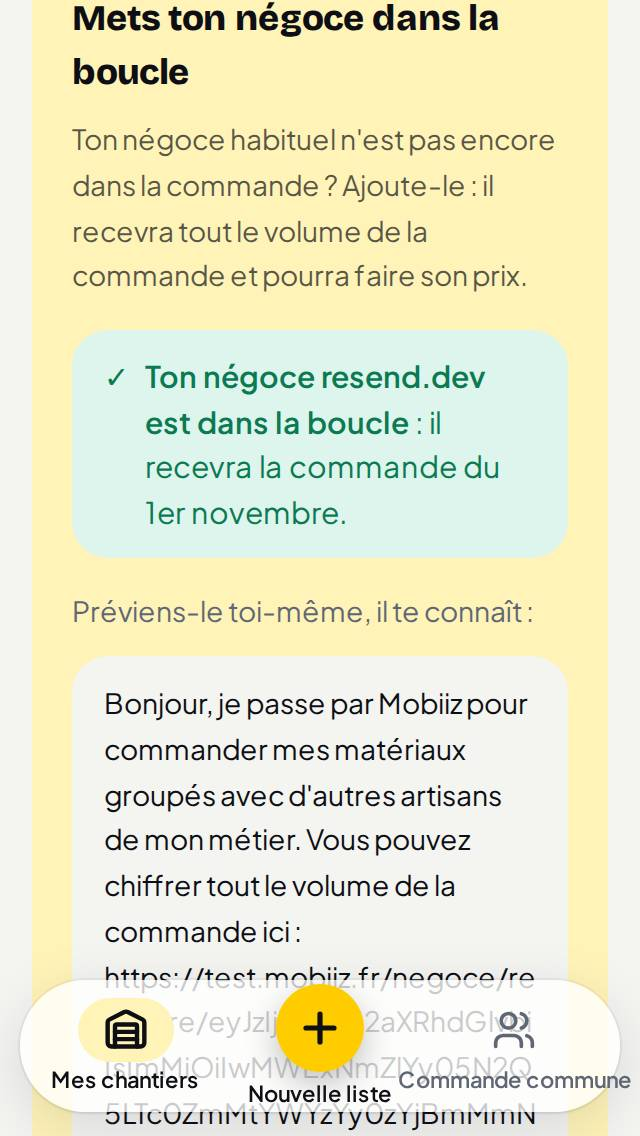
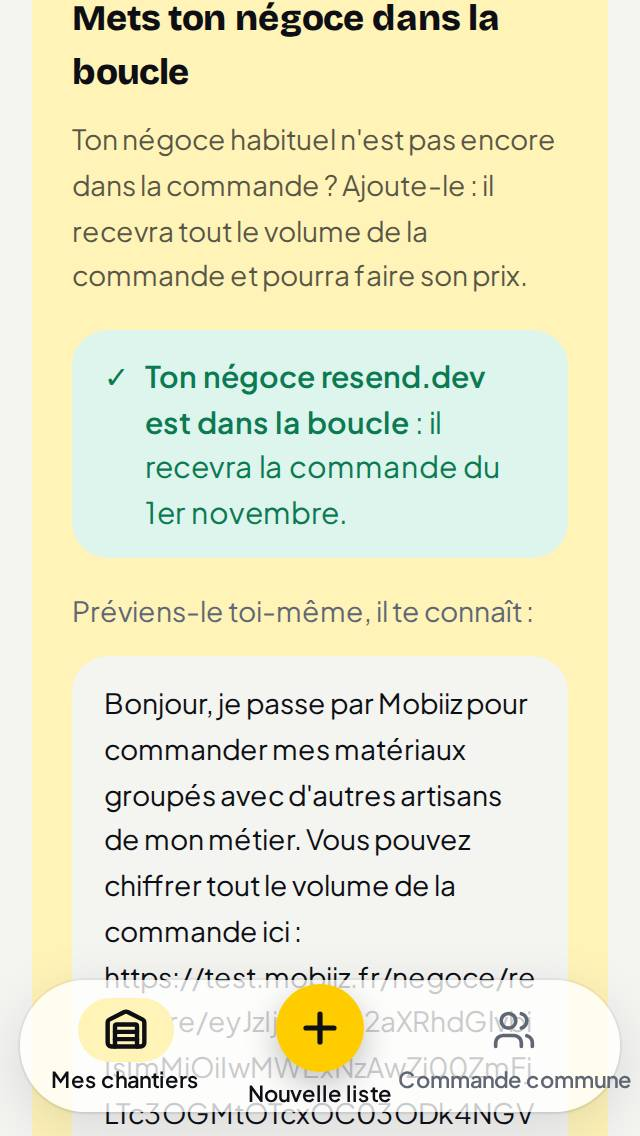
Commande commune : l'adresse du chantier demandée d'emblée quand il n'en a pas
Recette en ligne (25 octobre 2026) : sur une liste donnée en photo (chantier
sans adresse), « Ajouter » partait, le serveur refusait (400) et seulement
ensuite le champ d'adresse apparaissait. La barre le montre d'emblée et
« Ajouter » attend un code postal. e2e : aucun refus du serveur.

Claude-Session: https://claude.ai/code/session_0188g8PcmvctNcTq82VPRdt3

Changed region(s): [[0.1562, 0.9243, 0.8438, 1.0]]

diff --git a/baticlair/apps/web/e2e/parcours-artisan.spec.ts b/baticlair/apps/web/e2e/parcours-artisan.spec.ts
@@ -2447,6 +2447,31 @@ test("Mets ton négoce dans la boucle (Greg, 23 octobre) : un e-mail, un bouton,
   expect(await page.evaluate(() => document.documentElement.scrollWidth <= window.innerWidth + 1)).toBe(true);
 });
 
+test("Liste donnée en photo, chantier sans adresse : la barre de la commande demande l'adresse d'emblée, sans refus du serveur (recette en ligne, 25 octobre 2026)", async ({ page }) => {
+  await compteAuGroupe(page, "Toitures Photo", "3 rue des Ajoncs, 22300 Lannion");
+  const refus: string[] = [];
+  page.on("response", (r) => {
+    if (r.status() === 400 && /\/commande-du-mois/.test(r.url())) refus.push(r.url());
+  });
+  await page.goto("/chantiers/nouveau");
+  await page.getByLabel("Déposer ma liste").setInputFiles(path.join(__dirname, "fixtures", "liste-manuscrite.png"));
+  await expect(page).toHaveURL(/\/chantiers\/[0-9a-f-]{36}/, { timeout: 60_000 });
+  const list = page.getByRole("region", { name: "Liste des fournitures" });
+  await expect(list).toBeVisible({ timeout: 60_000 });
+  await page.getByRole("region", { name: /^Commande commune/ }).getByRole("button", { name: /^Ajouter à la commande/ }).click();
+  const boxes = list.getByRole("checkbox", { name: /^Ajouter à la commande : / }).and(page.locator(":enabled"));
+  await boxes.first().check();
+  const bar = page.getByRole("region", { name: /^Ajouter à la commande/ }).last();
+  await bar.getByRole("radio", { name: "Un chantier signé" }).click();
+  // L'adresse est demandée tout de suite ; « Ajouter » attend un code postal.
+  await expect(bar.getByLabel(/Adresse du chantier, avec le code postal/)).toBeVisible();
+  await expect(bar.getByRole("button", { name: "Ajouter" })).toBeDisabled();
+  await bar.getByLabel(/Adresse du chantier, avec le code postal/).fill("5 rue de Kerampont, 22300 Lannion");
+  await bar.getByRole("button", { name: "Ajouter" }).click();
+  await expect(page.getByRole("region", { name: /^Dans la commande/ })).toBeVisible();
+  expect(refus).toEqual([]);
+});
+
 test("Guide du premier lancement (Greg, 24 octobre 2026) : trois écrans une fois inscrit, sautable, la prochaine clôture, « Déposer ma première liste », une seule fois, « Revoir le guide » dans le menu", async ({ page }) => {
   await page.removeLocatorHandler(page.getByRole("dialog", { name: "Guide" }));
   await signUp(page);

diff --git a/baticlair/apps/web/src/components/groupe.tsx b/baticlair/apps/web/src/components/groupe.tsx
@@ -43,6 +43,11 @@ export interface OffreGroupe {
 }
 
 export interface Groupe {
+  /**
+   * Le chantier a une adresse avec un code postal (la commande se fait par département). Sans elle, la barre « Ajouter à
+   * la commande » demande l'adresse d'emblée (recette en ligne du 25 octobre 2026 : un refus du serveur d'abord).
+   */
+  adresseConnue: boolean;
   /** Clé de l'article → son besoin au groupé (retirés exclus). */
   besoins: ReadonlyMap<string, BesoinGroupe>;
   proposer: (articles: string[], fenetre: { tot: string; tard: string }, statut: "signe" | "en_attente", engagement: boolean) => Promise<void>;
@@ -103,6 +108,8 @@ export function useGroupe(projectId: string): Groupe | null {
   if (!eligible) return null;
   return {
     besoins,
+    // La vue du mois pour CE chantier est vide quand il n'a pas d'adresse avec code postal ; avant la réponse, on suppose.
+    adresseConnue: mode !== "mois" || mois.data === null || mois.data === undefined || mois.data.prochaine !== null,
     mode,
     mois: mois.data ?? null,
     rechargerMois: () => (mois.reload(), liste.reload()),

diff --git a/baticlair/apps/web/src/components/commande-du-mois.tsx b/baticlair/apps/web/src/components/commande-du-mois.tsx
@@ -287,7 +287,9 @@ export function CommandeDuMoisBar({
   onCancel,
   onDeposer,
   onAdresse,
+  adresseConnue = true,
 }: {
+  adresseConnue?: boolean;
   count: number;
   de: string;
   phrase: string;
@@ -301,7 +303,7 @@ export function CommandeDuMoisBar({
   const [pending, setPending] = useState(false);
   const [error, setError] = useState<ApiError | null>(null);
   const choix = "pressable inline-flex min-h-12 grow items-center justify-center rounded-full border px-3 text-[15px] font-semibold";
-  const adresseManque = error?.reason === "adresse_requise" && Boolean(onAdresse);
+  const adresseManque = (error?.reason === "adresse_requise" || !adresseConnue) && Boolean(onAdresse);
   return (
     <section aria-label={`Ajouter à la commande ${de}`} className="flex flex-col gap-3 rounded-xl bg-surface p-4 shadow-card">
       <p className="text-[16px] font-semibold">{count === 0 ? `Coche les lignes à ajouter à la commande ${de}` : `${count} ligne${count > 1 ? "s" : ""} pour la commande ${de}`}</p>

diff --git a/baticlair/apps/web/src/components/supply-list.tsx b/baticlair/apps/web/src/components/supply-list.tsx
@@ -396,6 +396,7 @@ export function SupplyList({
             phrase={groupe.mois?.phrases.sansEngagement ?? ""}
             onCancel={stopSelecting}
             onAdresse={groupe.adresse}
+            adresseConnue={groupe.adresseConnue}
             onDeposer={async (nature) => {
               setMessageMois(await groupe.deposer([...checked], nature));
               stopSelecting();
